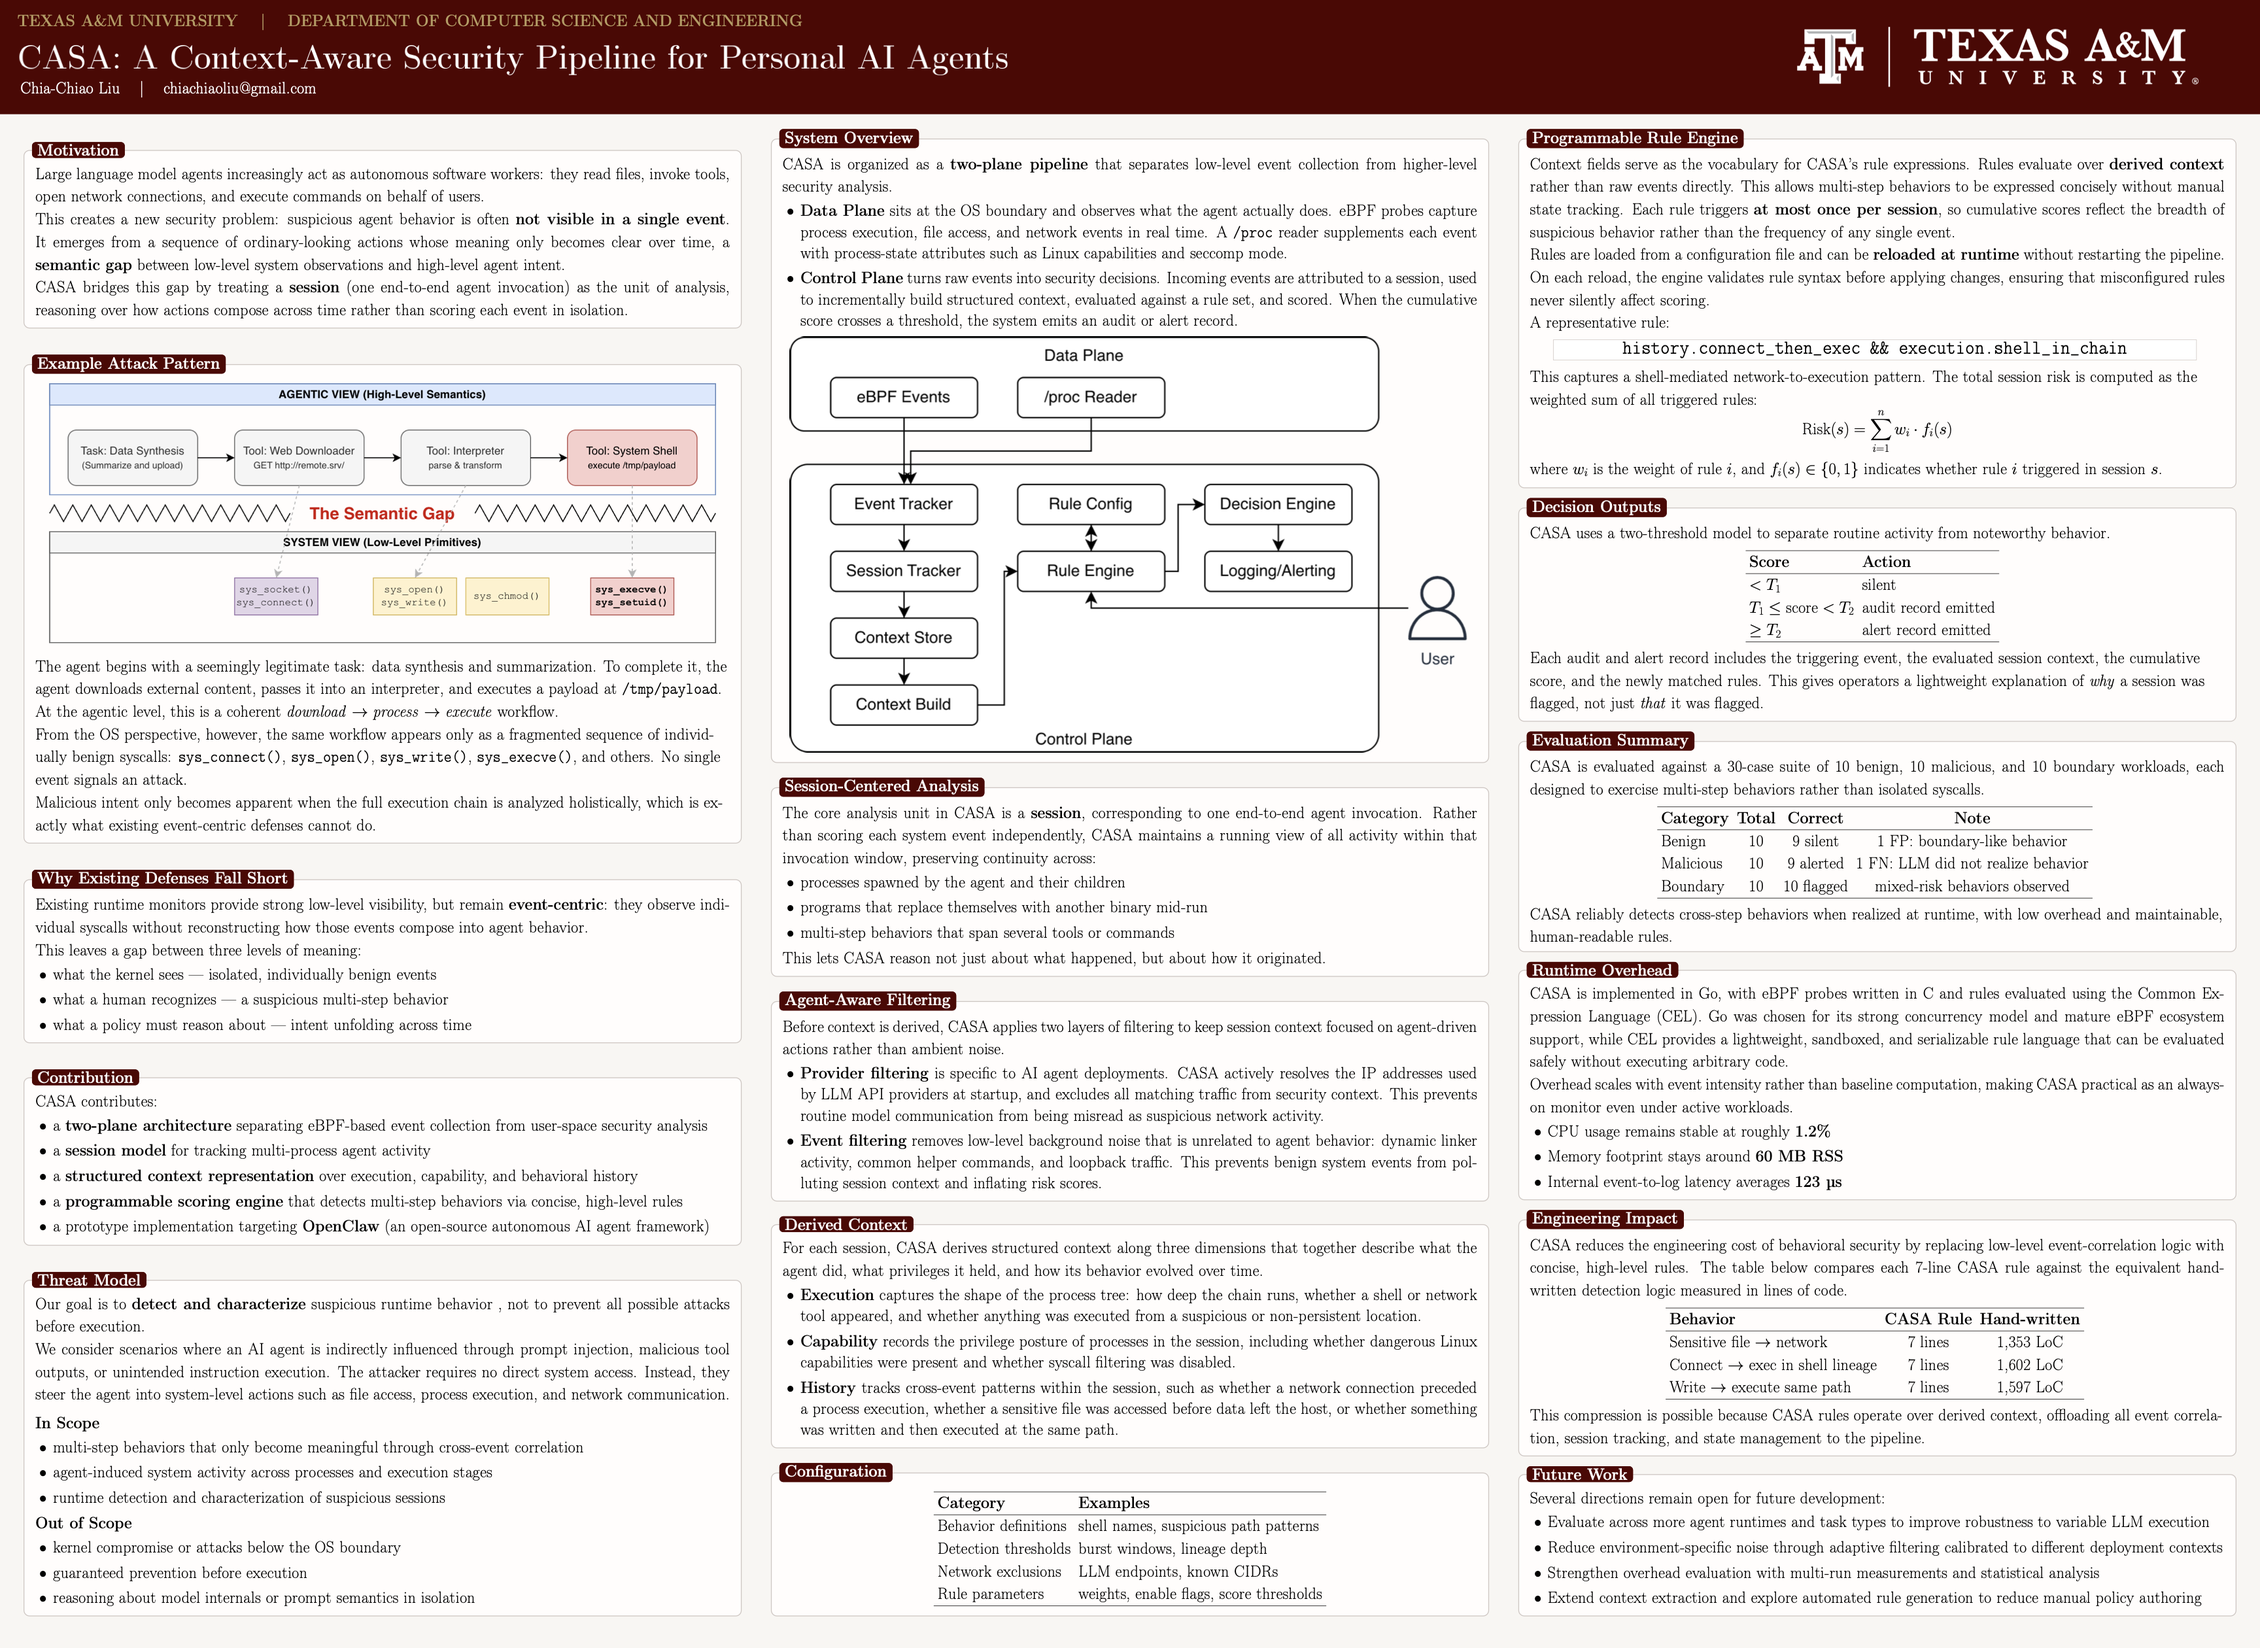
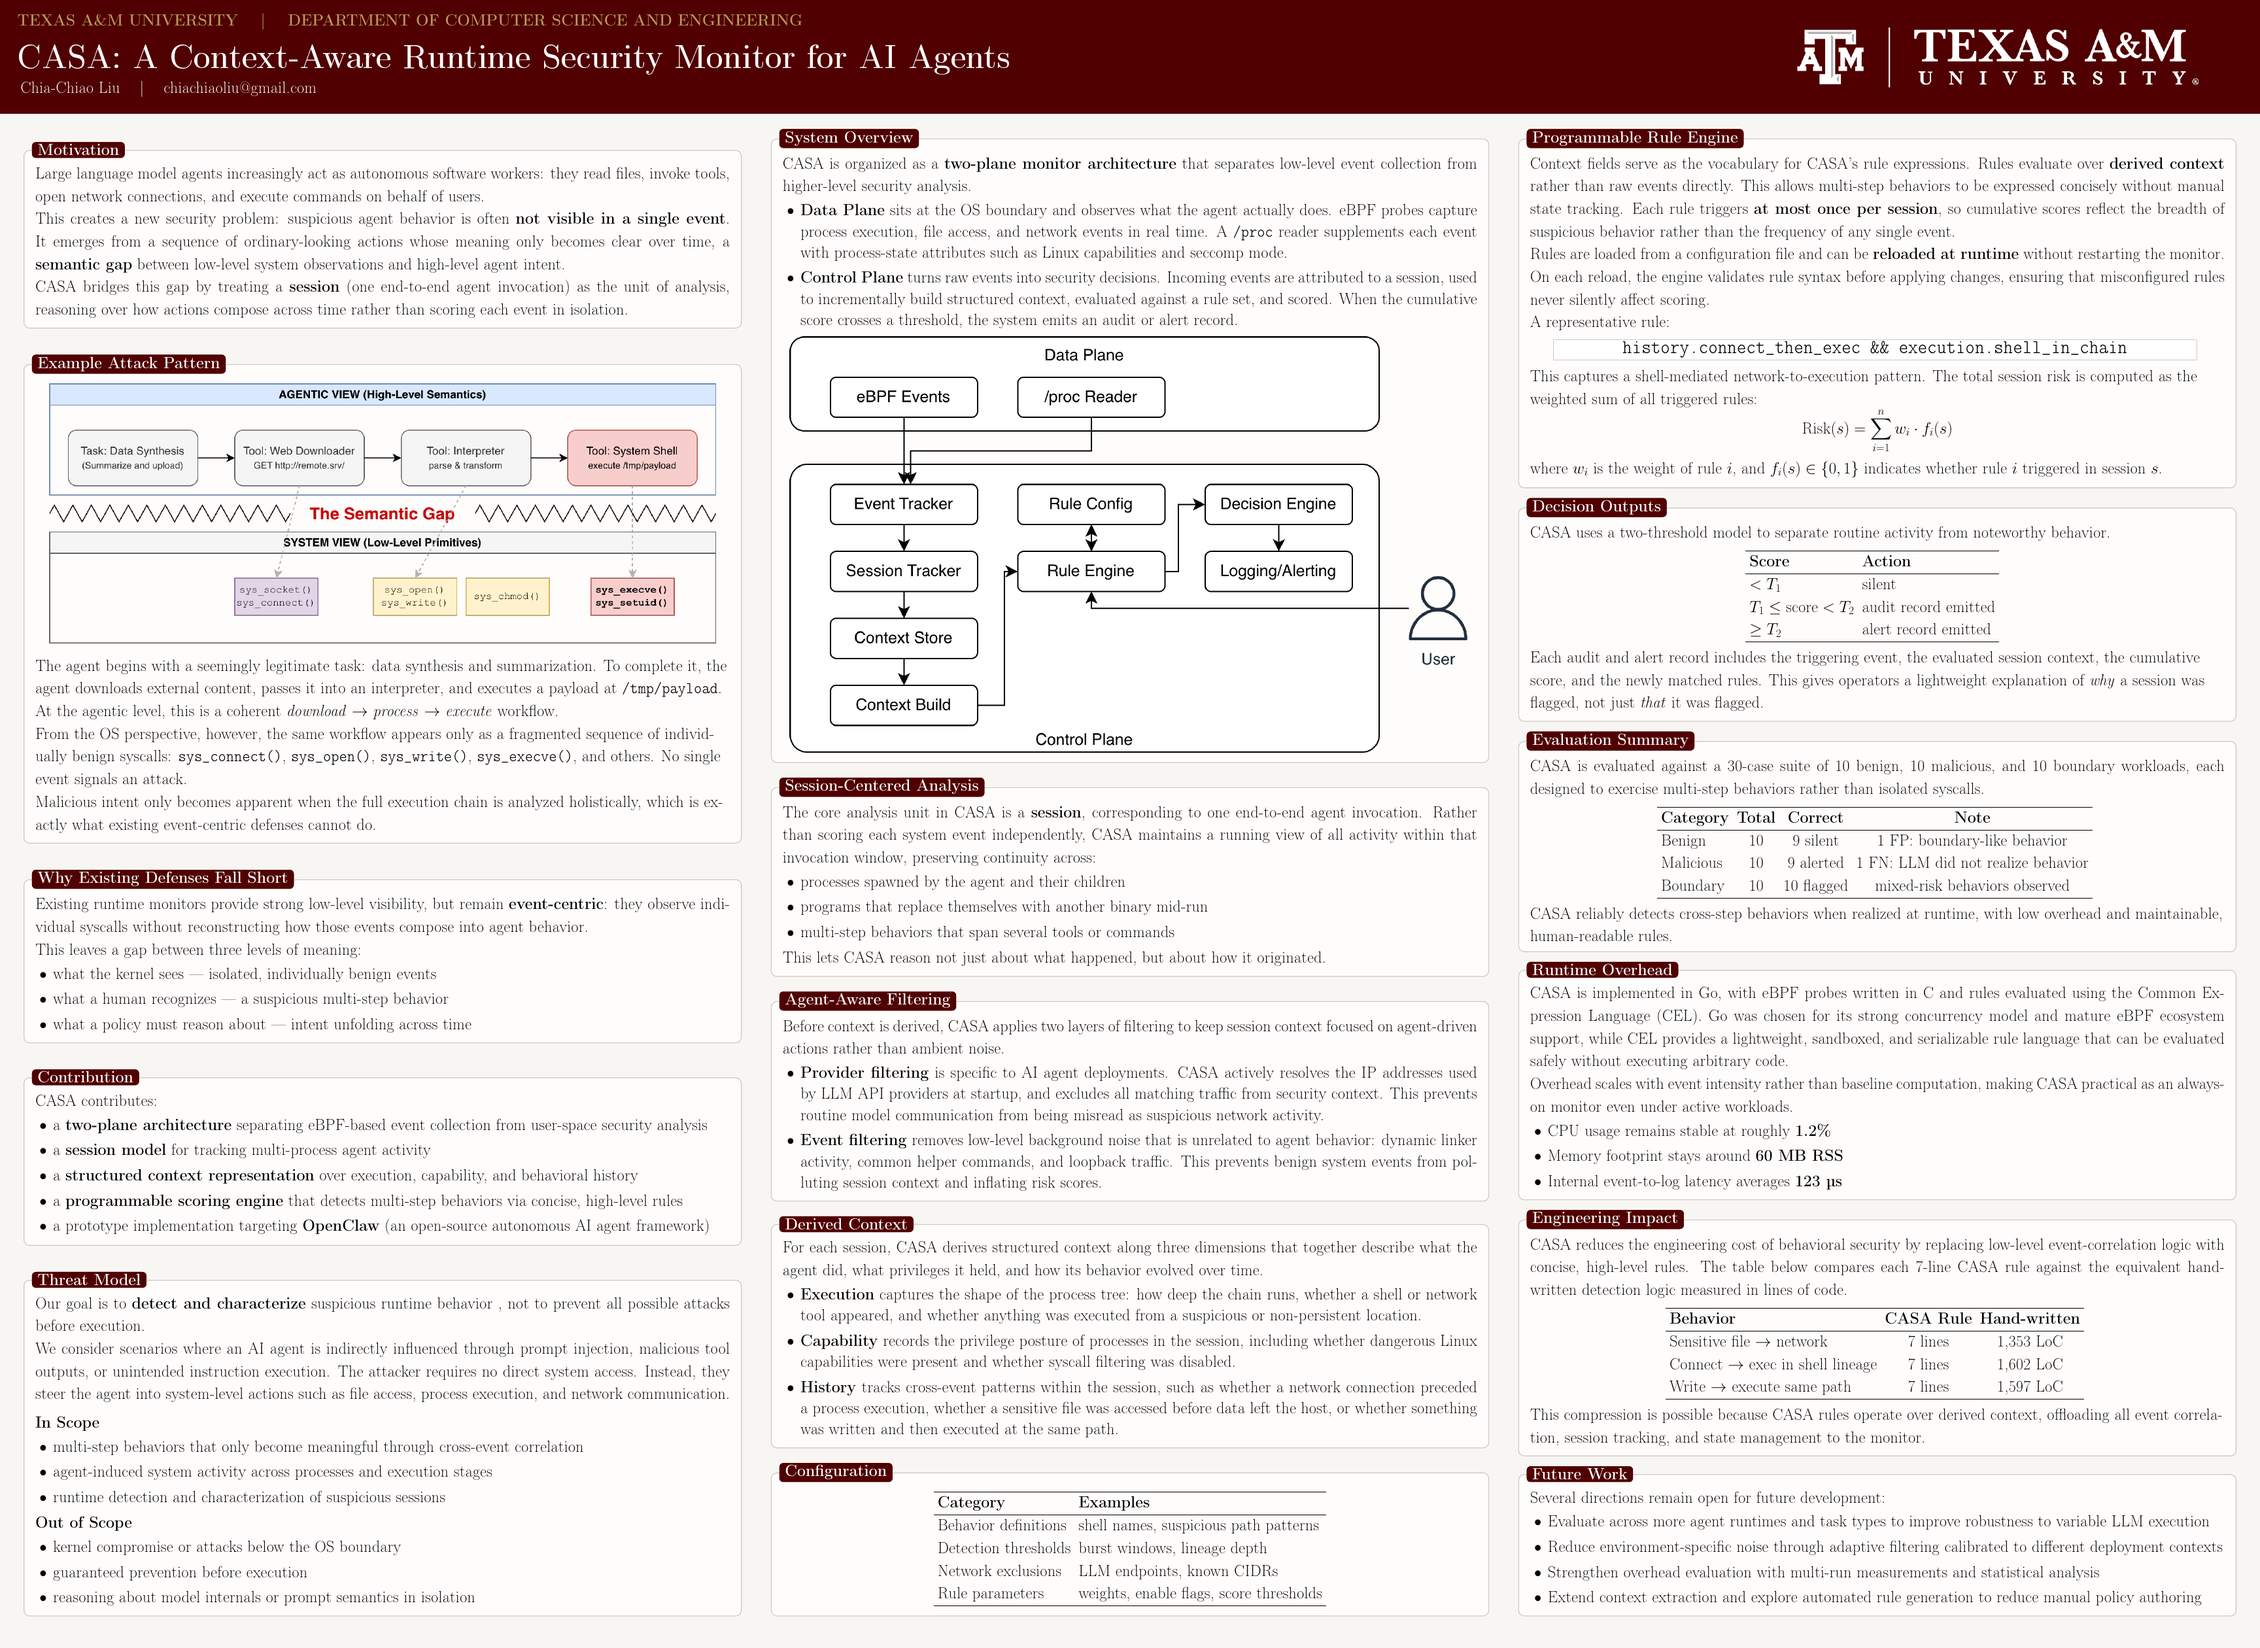
update

diff --git a/README.md b/README.md
@@ -1,7 +1,7 @@
-# CASA: A Context-Aware Security Pipeline for Personal AI Agents
+# CASA: A Context-Aware Runtime Security Monitor for AI Agents
 
-CASA monitors AI agent runtime behavior at the OS level, using eBPF to
-capture system events, grouping them into sessions, and evaluating
+CASA is a context-aware runtime security monitor for AI agents. It uses
+eBPF to capture OS-level events, groups them into sessions, and evaluates
 weighted rules over derived context to detect multi-step attack patterns
 such as connect→exec and write→exec.
 
